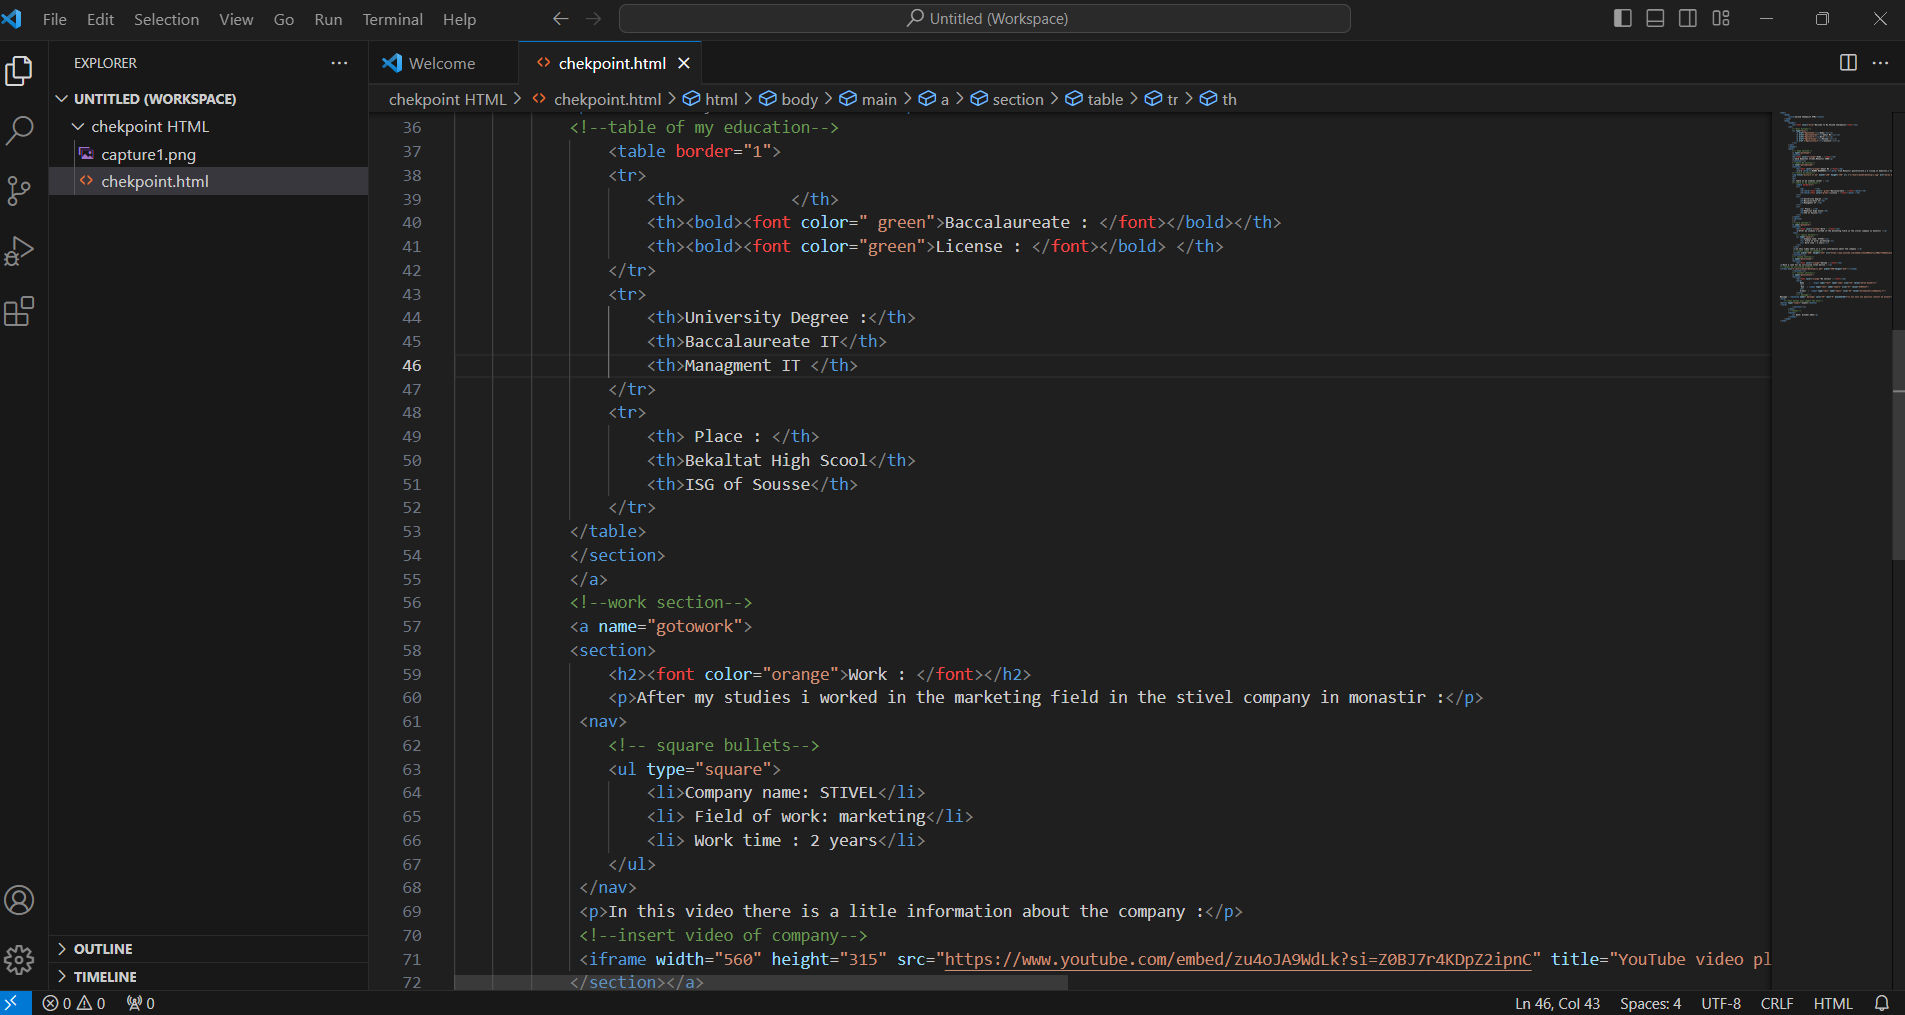
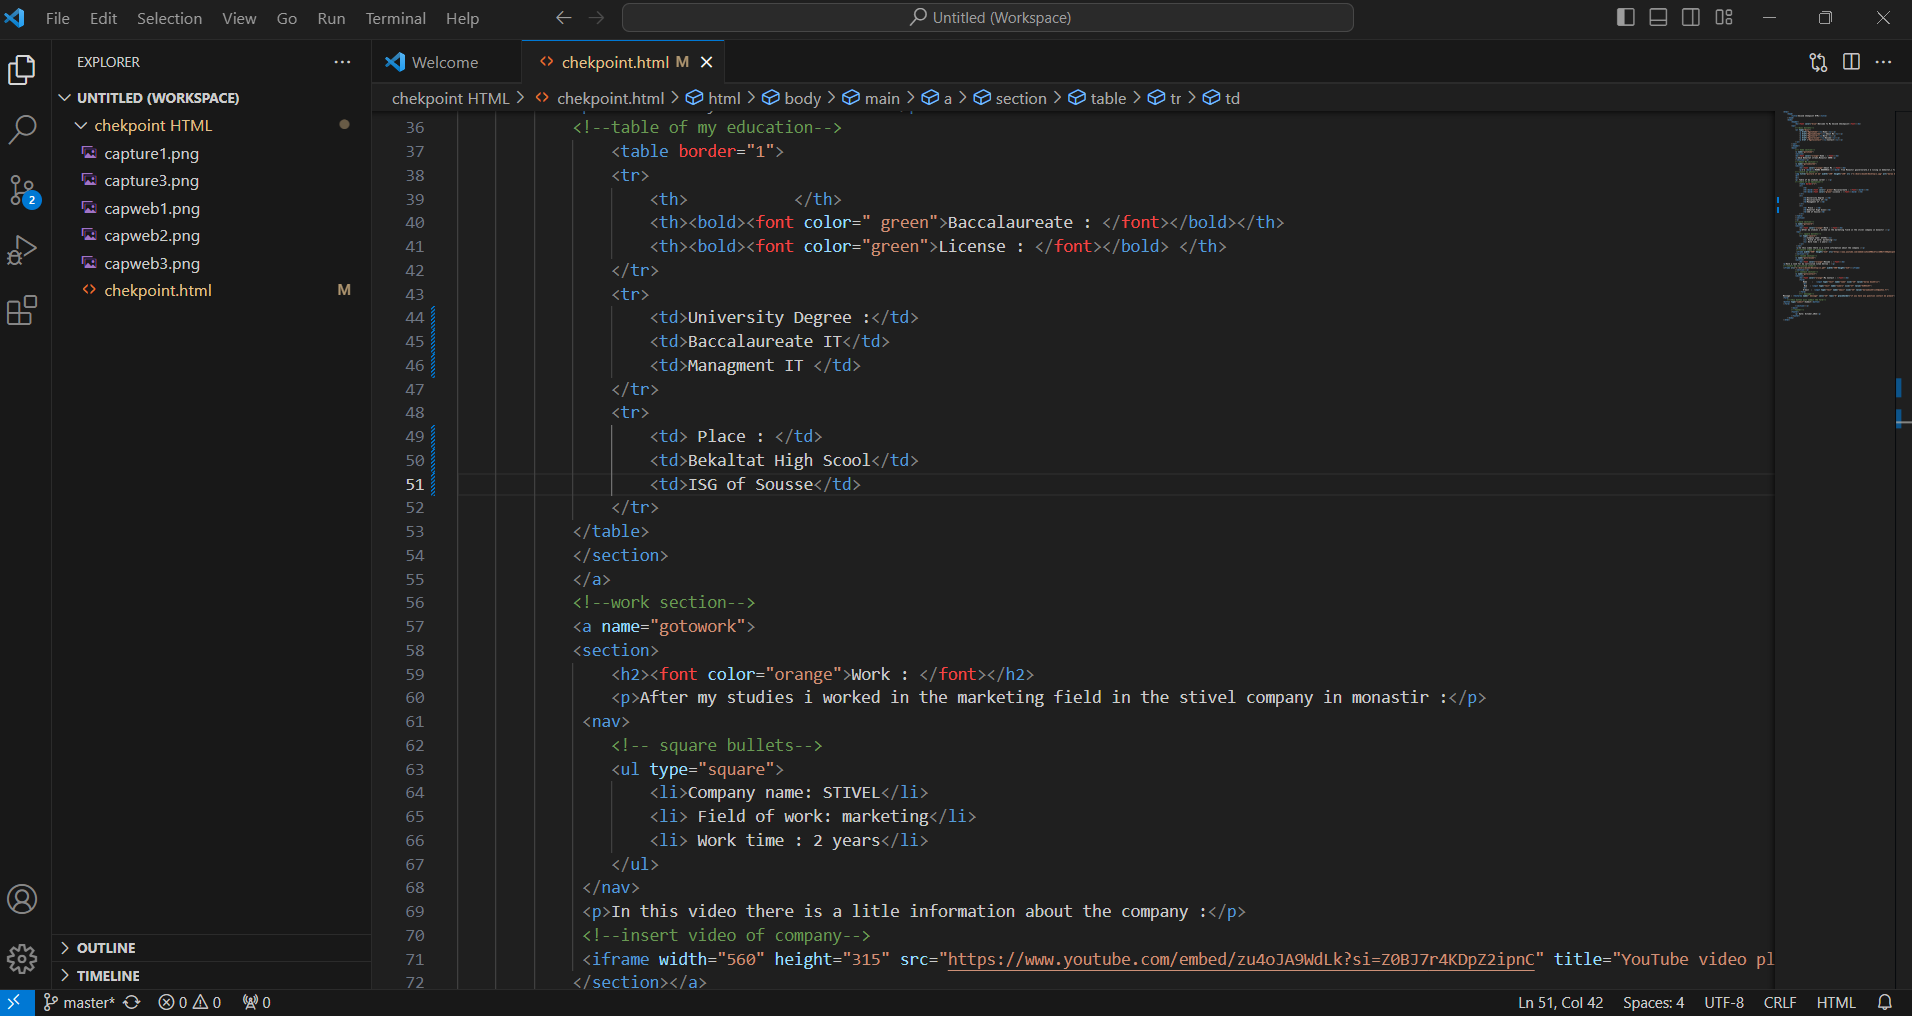
adding capture2

diff --git a/chekpoint.html b/chekpoint.html
@@ -41,14 +41,14 @@
                     <th><bold><font color="green">License : </font></bold> </th>
                 </tr>
                 <tr>
-                    <th>University Degree :</th>
-                    <th>Baccalaureate IT</th>
-                    <th>Managment IT </th>
+                    <td>University Degree :</td>
+                    <td>Baccalaureate IT</td>
+                    <td>Managment IT </td>
                 </tr>
                 <tr>
-                    <th> Place : </th>
-                    <th>Bekaltat High Scool</th>
-                    <th>ISG of Sousse</th>
+                    <td> Place : </td>
+                    <td>Bekaltat High Scool</td>
+                    <td>ISG of Sousse</td>
                 </tr>
             </table>
             </section>
